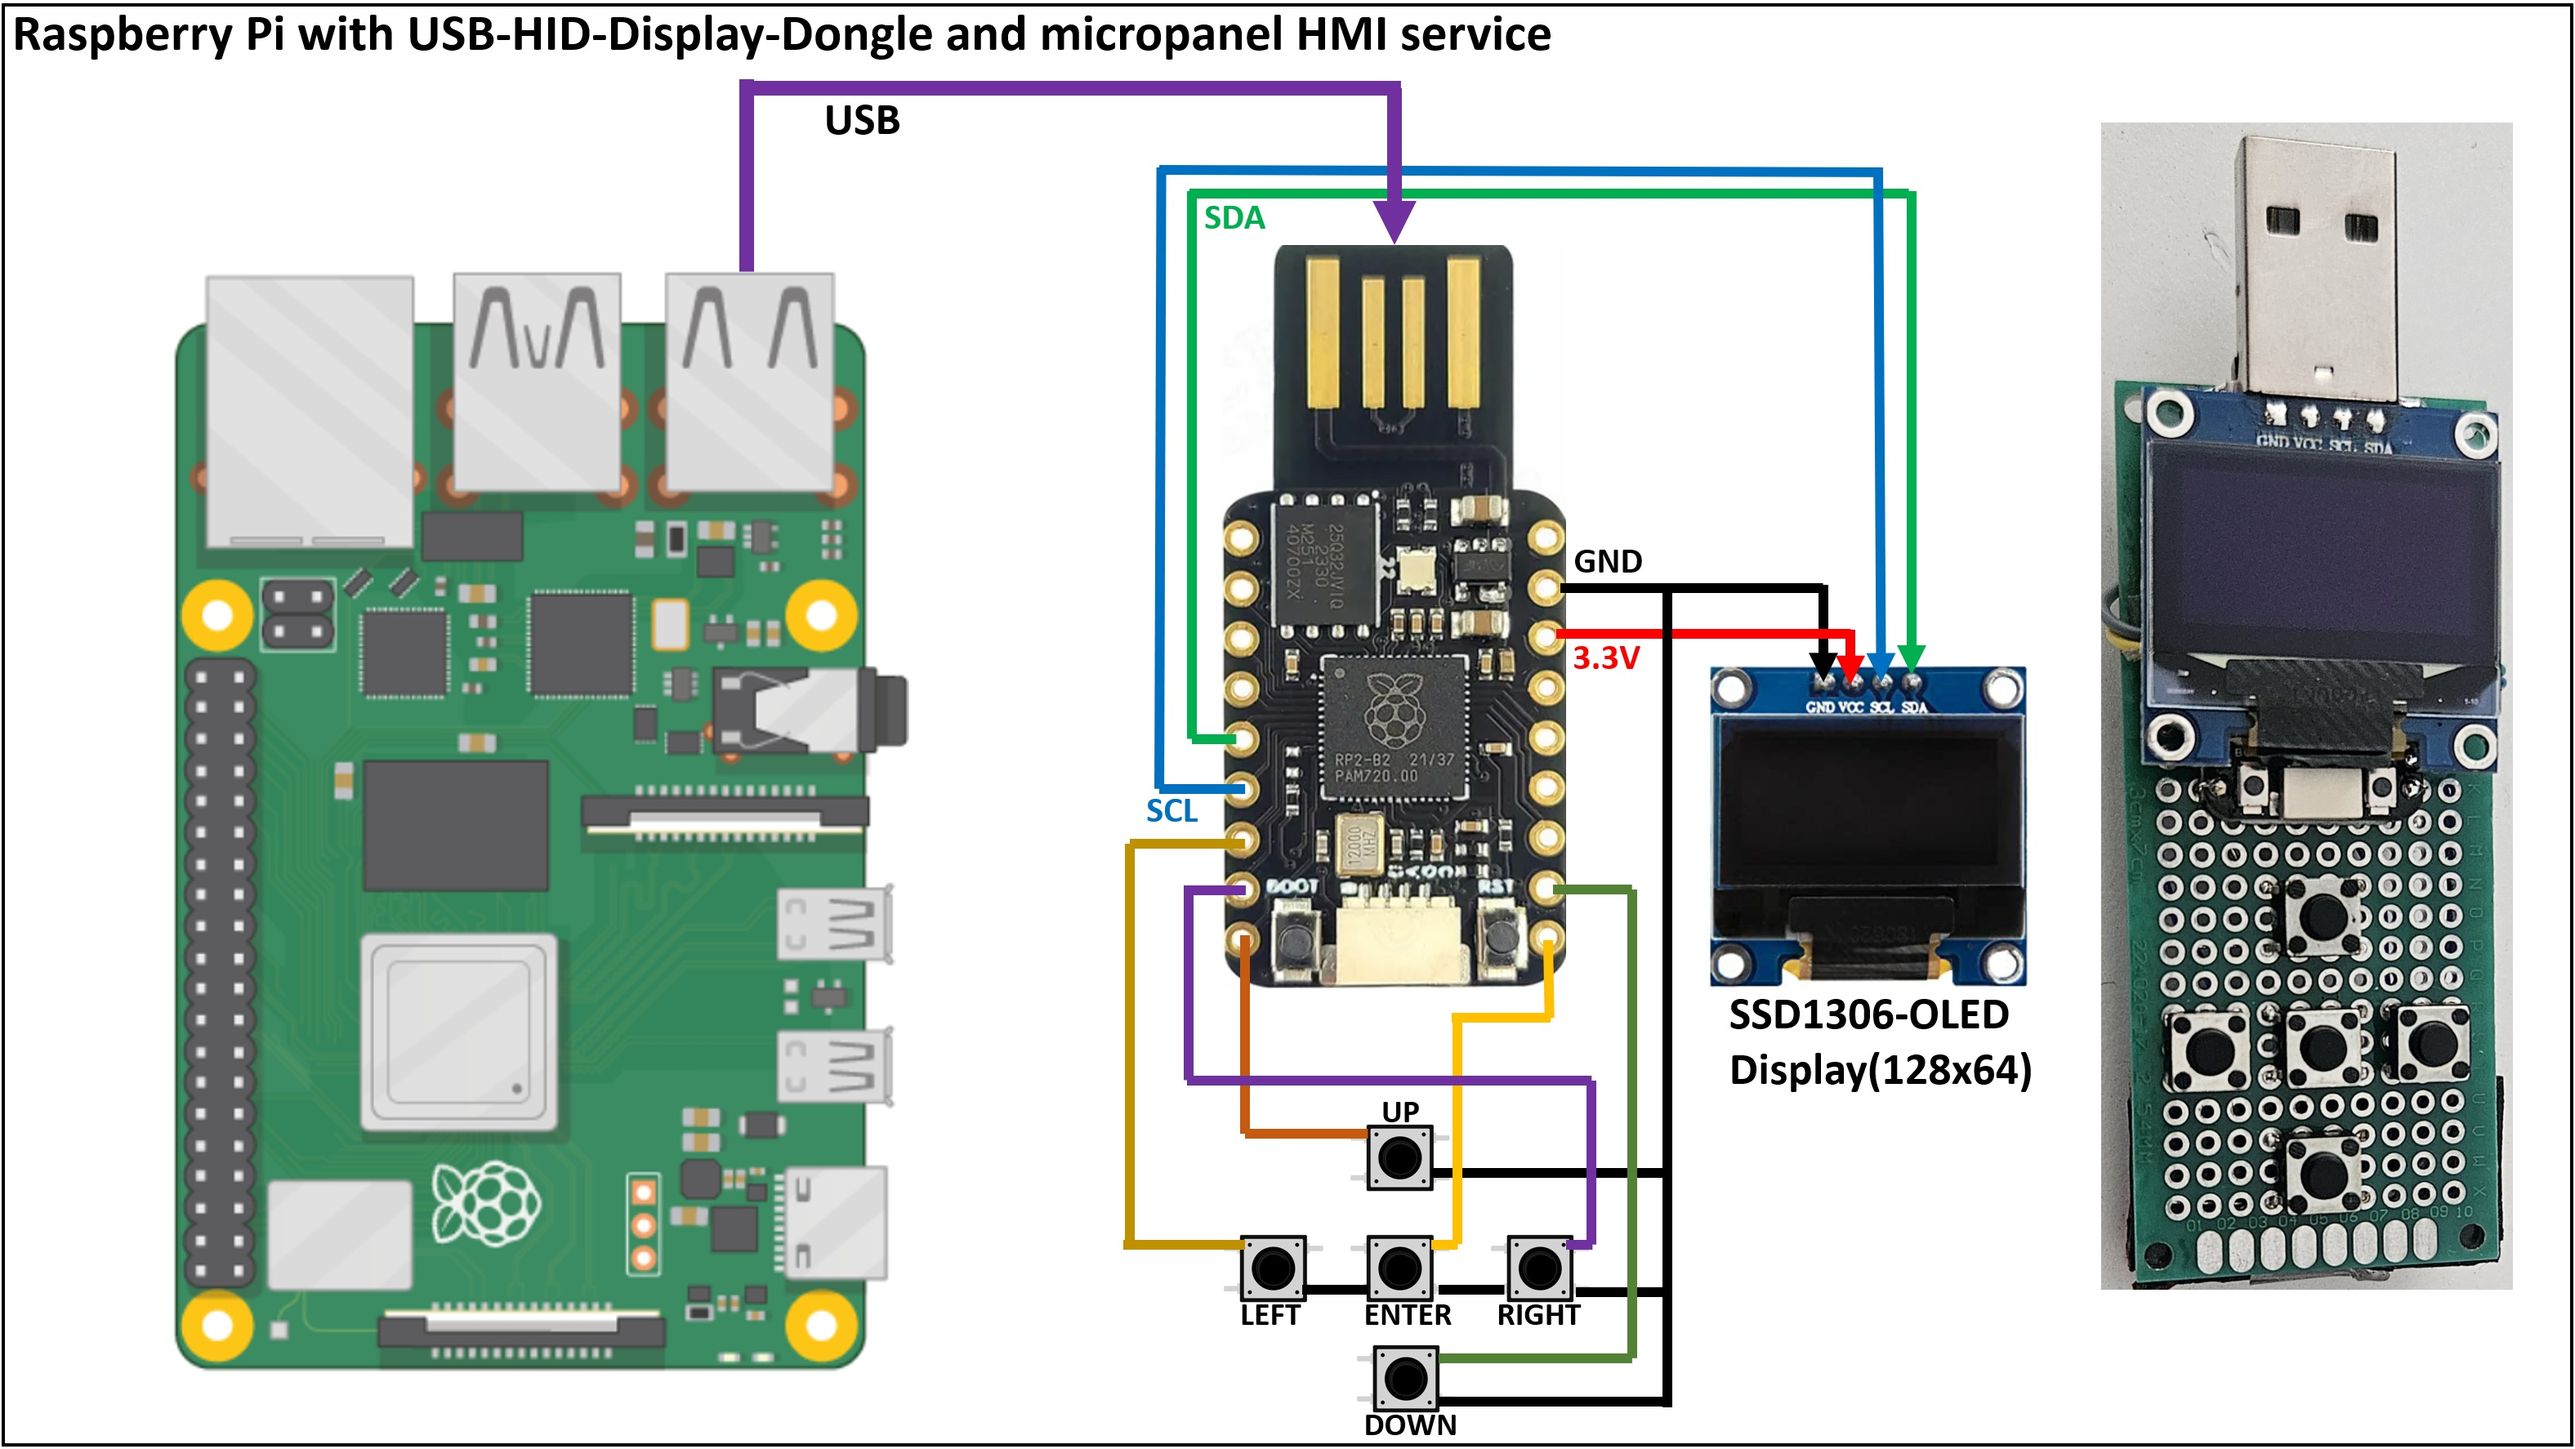
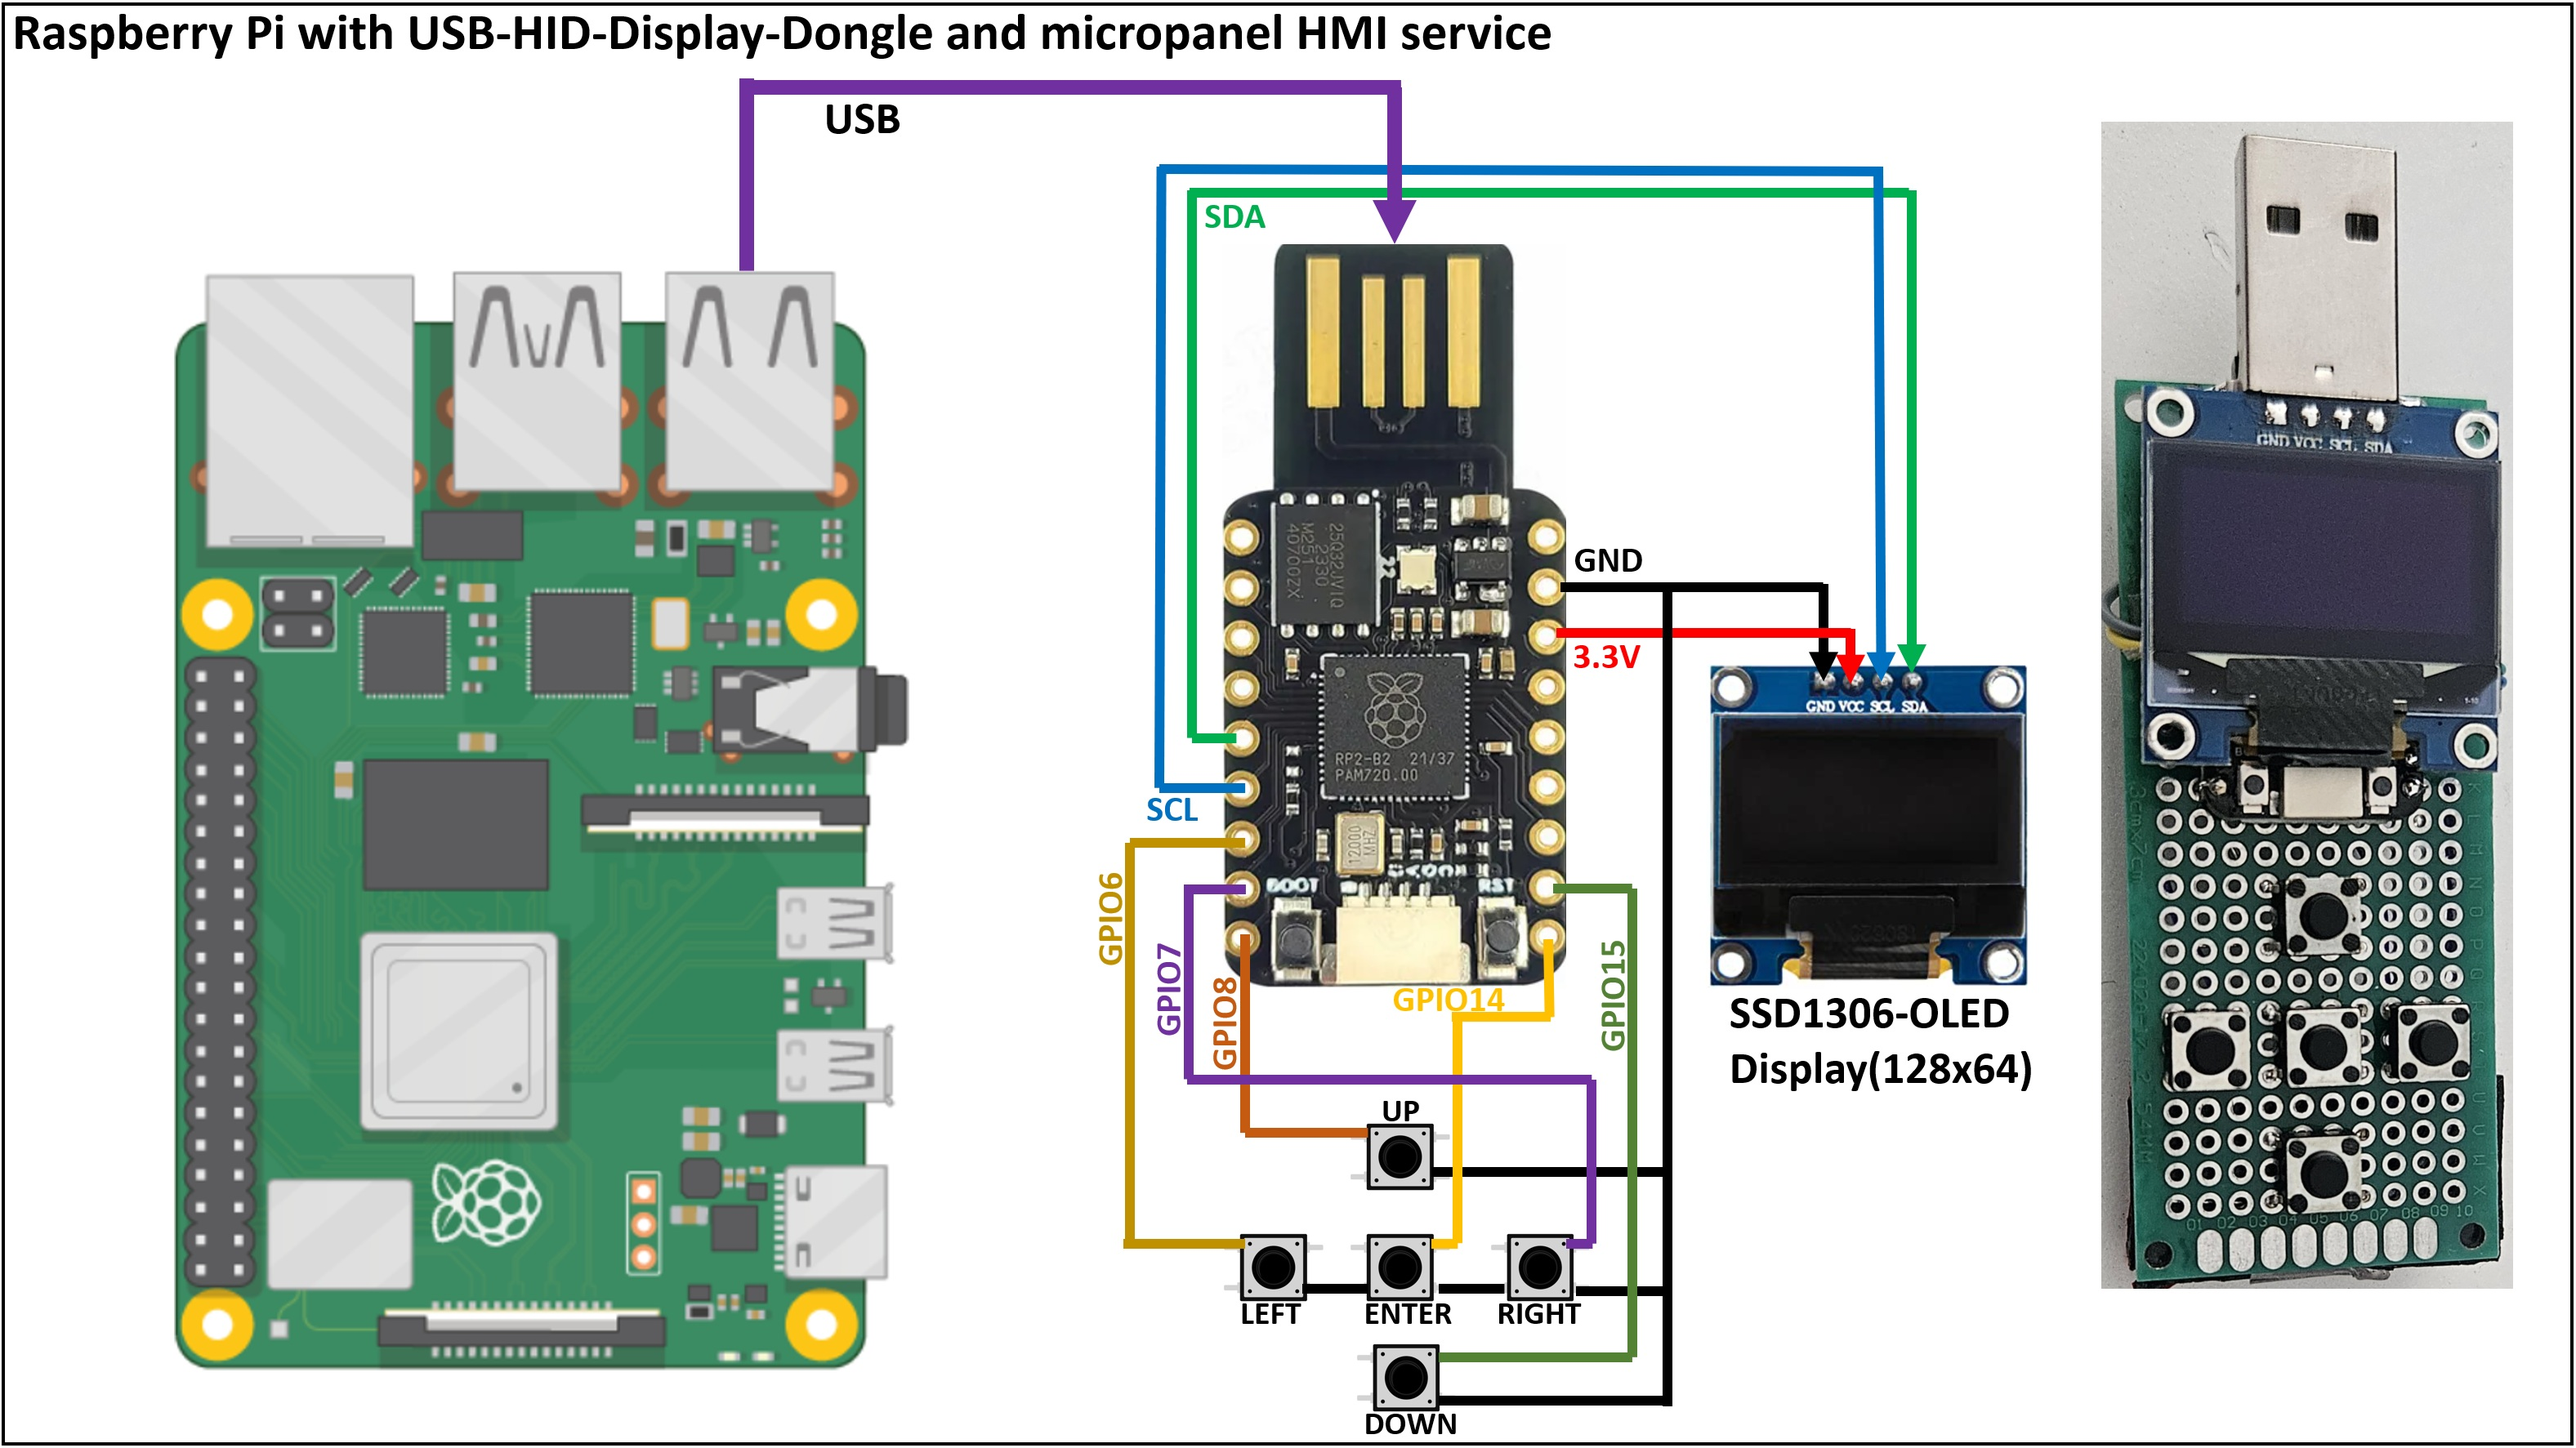
updated readme and code and picture as per updated gpio config for directional push buttons

diff --git a/rp2040/src/rotary_encoder.cpp b/rp2040/src/rotary_encoder.cpp
@@ -1,15 +1,16 @@
 #include "main.h"
 
 // Rotary encoder GPIO pins
-#define ROTARY_CLK_PIN  10 //REL_X
-#define ROTARY_DT_PIN   11
-#define ROTARY_SW_PIN   14 //12 //ENTER_BTN: MOUSE_BTN_LEFT
+#define ROTARY_CLK_PIN  27 //10 //REL_X
+#define ROTARY_DT_PIN   26 //11
+//#define ROTARY_SW_PIN 14 //ENTER_BTN: MOUSE_BTN_LEFT
 
-//push-button keys
+//gpio config for up/down/left/right directional buttons
 #define LEFT_BTN_PIN    6  // REL_X value -5
 #define RIGHT_BTN_PIN   7  // REL_X value 5
-#define TOP_BTN_PIN     15 //9  // REL_Y value 5
-#define BOT_BTN_PIN     8  // REL_Y value -5
+#define TOP_BTN_PIN     15 // REL_Y value 5(mapped to down button)
+#define BOT_BTN_PIN     8  // REL_Y value -5(mapped to up button)
+#define ROTARY_SW_PIN   14 //ENTER_BTN: MOUSE_BTN_LEFT
 
 // Global state variables
 static int last_clk_state = 0;
